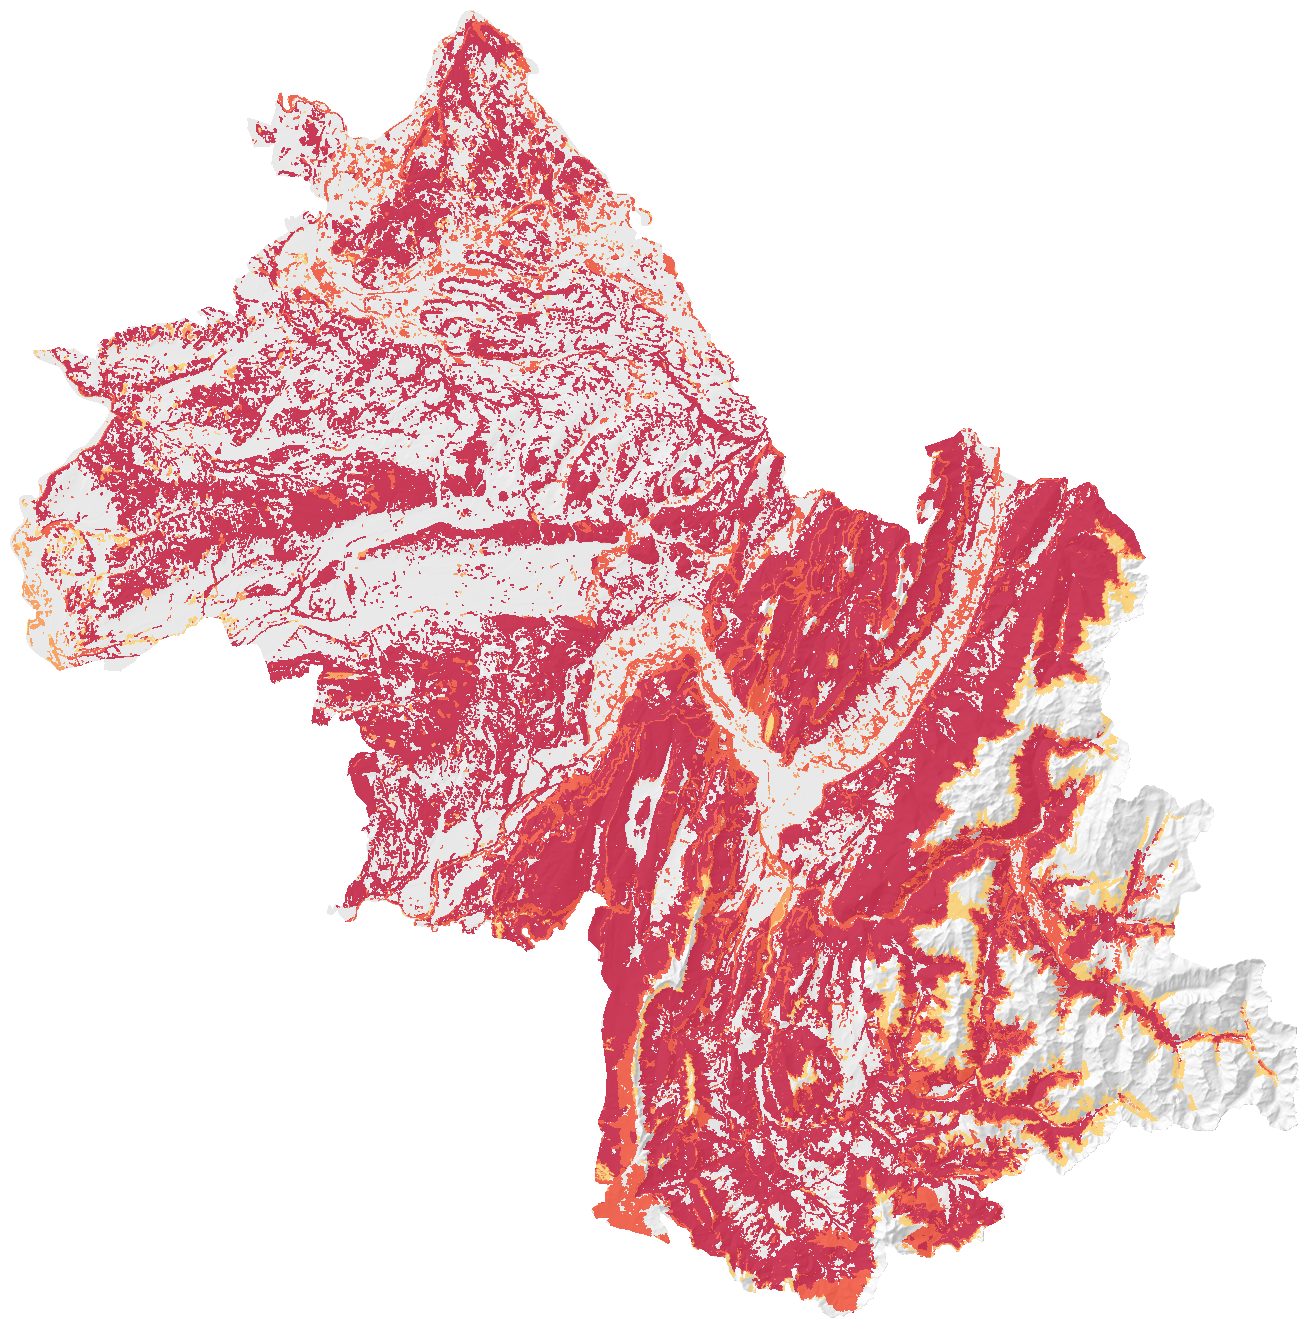
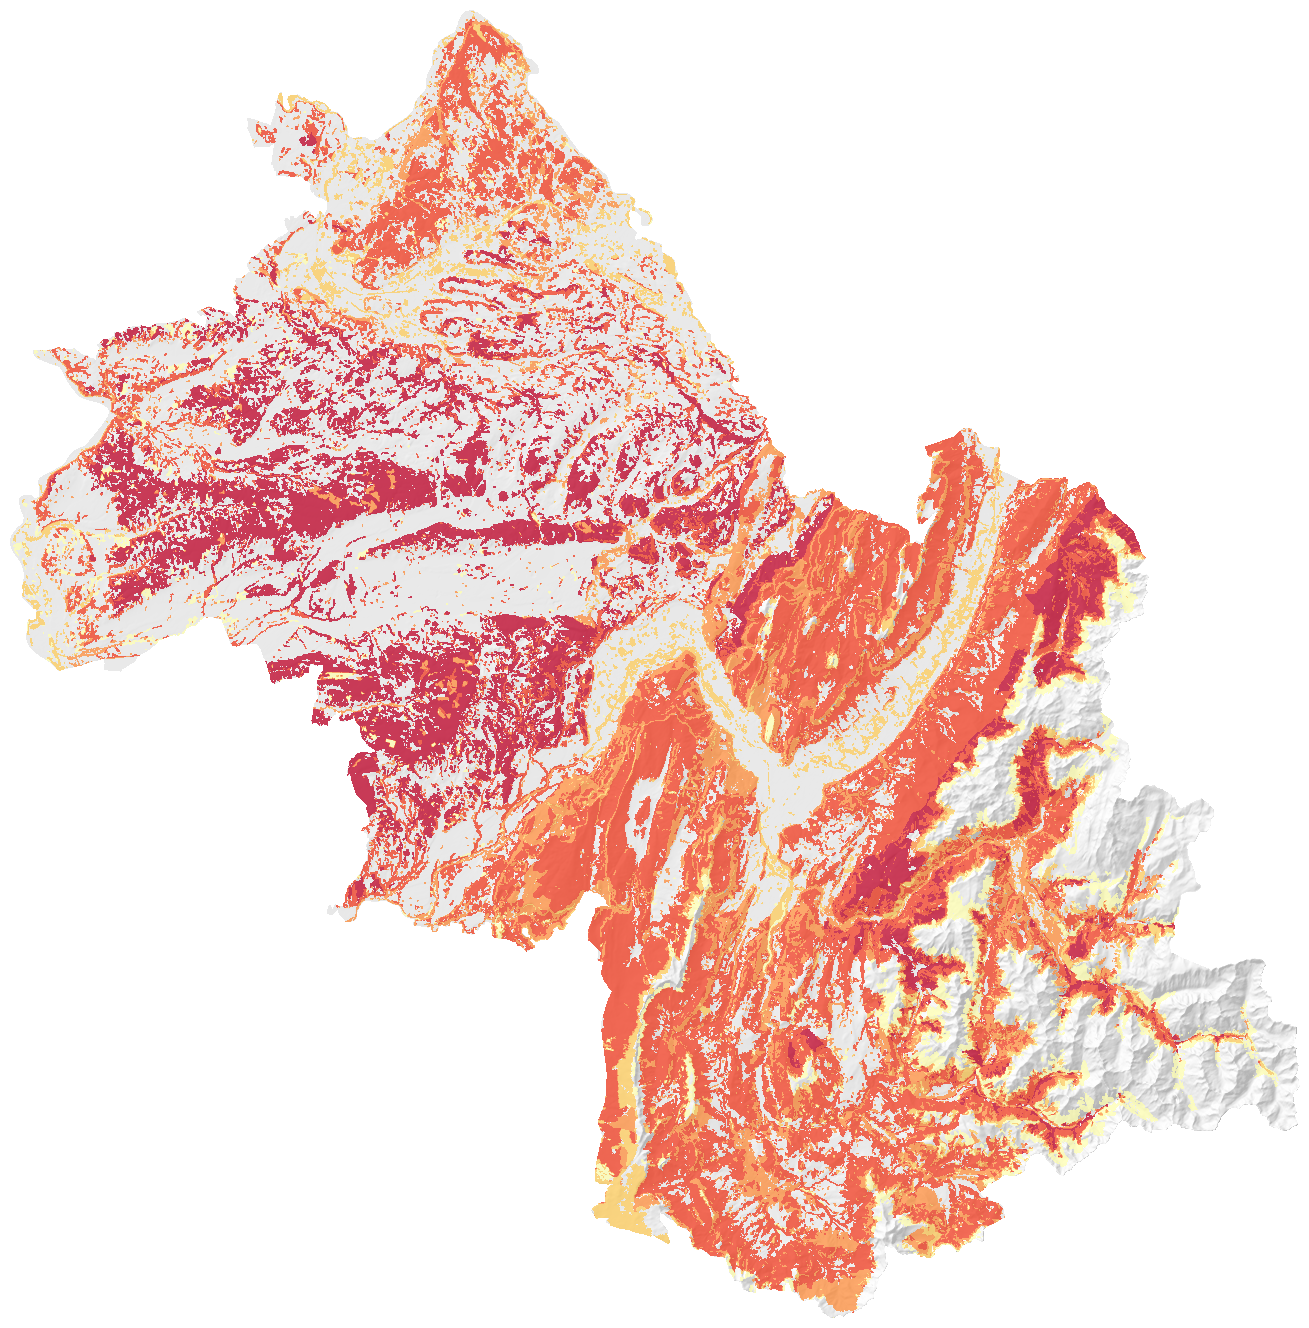
Habitat en produit pondéré : aperçus et rapports de calibrage recalculés
Claude-Session: https://claude.ai/code/session_01HEL7sLH39tDzsfPS4Uce3D

diff --git a/reports/calibration/trompette/rapport.md b/reports/calibration/trompette/rapport.md
@@ -28,7 +28,7 @@ Requête GBIF : https://api.gbif.org/v1/occurrence/search?hasCoordinate=true&has
 
 ![Phénologie](phenologie.png)
 
-Observations hors de la fenêtre saisonnière du modèle : **10 %**.
+Observations hors de la fenêtre saisonnière du modèle : **6 %**.
 
 ## Habitat
 
@@ -36,8 +36,8 @@ L'habitat est moyenné dans le cercle d'incertitude de chaque observation, puis 
 
 ![Habitat](habitat.png)
 
-- AUC observations / fond : 0.51 (faible)
-- Indice de Boyce continu : 0.30 (faible)
+- AUC observations / fond : 0.54 (faible)
+- Indice de Boyce continu : -0.25 (faible)
 
 ### Composition : essences
 
@@ -81,8 +81,8 @@ Score M calculé avec la météo historique (Open-Meteo, ERA5-Land et ERA5), à 
 
 ![Météo](meteo.png)
 
-- AUC temporelle : 0.65 (correct)
-- Sous-scores moyens le jour observé : pluie_15j 0.82, tmoy_7j 0.91, saison 0.88, gel 0.97
+- AUC temporelle : 0.68 (correct)
+- Sous-scores moyens le jour observé : pluie_15j 0.82, tmoy_7j 0.91, saison 0.93, gel 0.97
 
 Valeurs des indicateurs les jours d'observation (déciles 10 et 90, médiane), comparées aux seuils du trapèze de la règle :
 
@@ -93,5 +93,4 @@ Valeurs des indicateurs les jours d'observation (déciles 10 et 90, médiane), c
 
 ## Règles à revoir
 
-- Phénologie : 10 % des observations hors saison du modèle (janv., avr., juil., déc.).
-- Habitat : AUC 0.51, le modèle distingue mal les zones observées du fond.
+- Habitat : AUC 0.54, le modèle distingue mal les zones observées du fond.

diff --git a/reports/calibration/README.md b/reports/calibration/README.md
@@ -4,10 +4,10 @@ Généré le 31/10/2026.
 
 | Espèce | Obs. | Datées | Localisées | Hors saison | AUC habitat | Boyce | AUC météo | Alertes |
 |---|---:|---:|---:|---:|---:|---:|---:|---:|
-| [Cèpe](cepe/rapport.md) | 187 | 187 | 180 | 3 % | 0.54 | 0.53 | 0.60 | 2 |
-| [Girolle](girolle/rapport.md) | 91 | 91 | 84 | 3 % | 0.56 | 0.60 | 0.61 | 1 |
-| [Morille](morille/rapport.md) | 40 | 40 | 31 | 0 % | 0.50 | -0.01 | 0.59 | 2 |
-| [Pied-de-mouton](pied_de_mouton/rapport.md) | 58 | 58 | 52 | 9 % | 0.53 | 0.32 | 0.60 | 2 |
-| [Trompette de la mort](trompette/rapport.md) | 69 | 69 | 68 | 10 % | 0.51 | 0.30 | 0.65 | 2 |
+| [Cèpe](cepe/rapport.md) | 187 | 187 | 180 | 3 % | 0.56 | 0.71 | 0.60 | 2 |
+| [Girolle](girolle/rapport.md) | 91 | 91 | 84 | 3 % | 0.57 | 0.33 | 0.61 | 1 |
+| [Morille](morille/rapport.md) | 40 | 40 | 31 | 0 % | 0.51 | 0.30 | 0.59 | 2 |
+| [Pied-de-mouton](pied_de_mouton/rapport.md) | 58 | 58 | 52 | 9 % | 0.53 | 0.20 | 0.60 | 2 |
+| [Trompette de la mort](trompette/rapport.md) | 69 | 69 | 68 | 6 % | 0.54 | -0.25 | 0.68 | 1 |
 
 Seuils d'alerte : effectif < 20 (indicatif), plus de 10 % d'observations hors saison, AUC < 0,6, classe sur-représentée × 1,5 mais notée ≤ 0,3 ou sous-représentée × 0,5 mais notée ≥ 0,8.

diff --git a/reports/calibration/cepe/rapport.md b/reports/calibration/cepe/rapport.md
@@ -36,8 +36,8 @@ L'habitat est moyenné dans le cercle d'incertitude de chaque observation, puis 
 
 ![Habitat](habitat.png)
 
-- AUC observations / fond : 0.54 (faible)
-- Indice de Boyce continu : 0.53 (correct)
+- AUC observations / fond : 0.56 (faible)
+- Indice de Boyce continu : 0.71 (correct)
 
 ### Composition : essences
 
@@ -68,7 +68,7 @@ Part moyenne de chaque classe dans les cercles (observations et fond), et valeur
 
 |  | valeur_regle | part_observations | part_fond | ratio |
 |---|---|---|---|---|
-| detritique_mixte | 0.90 | 0.45 | 0.31 | 1.43 |
+| detritique_mixte | 1.00 | 0.45 | 0.31 | 1.43 |
 | calcaire | 0.60 | 0.21 | 0.28 | 0.76 |
 | marno_calcaire | 0.70 | 0.17 | 0.18 | 0.92 |
 | alluvions_recentes | 0.40 | 0.09 | 0.13 | 0.66 |
@@ -94,5 +94,5 @@ Valeurs des indicateurs les jours d'observation (déciles 10 et 90, médiane), c
 
 ## Règles à revoir
 
-- Habitat : AUC 0.54, le modèle distingue mal les zones observées du fond.
+- Habitat : AUC 0.56, le modèle distingue mal les zones observées du fond.
 - Météo : AUC temporelle 0.60, les jours observés ne sont pas nettement mieux notés que les autres jours.

diff --git a/reports/calibration/morille/rapport.md b/reports/calibration/morille/rapport.md
@@ -36,8 +36,8 @@ L'habitat est moyenné dans le cercle d'incertitude de chaque observation, puis 
 
 ![Habitat](habitat.png)
 
-- AUC observations / fond : 0.50 (faible)
-- Indice de Boyce continu : -0.01 (faible)
+- AUC observations / fond : 0.51 (faible)
+- Indice de Boyce continu : 0.30 (faible)
 
 ### Composition : essences
 
@@ -94,5 +94,5 @@ Valeurs des indicateurs les jours d'observation (déciles 10 et 90, médiane), c
 
 ## Règles à revoir
 
-- Habitat : AUC 0.50, le modèle distingue mal les zones observées du fond.
+- Habitat : AUC 0.51, le modèle distingue mal les zones observées du fond.
 - Météo : AUC temporelle 0.59, les jours observés ne sont pas nettement mieux notés que les autres jours.

diff --git a/reports/calibration/girolle/rapport.md b/reports/calibration/girolle/rapport.md
@@ -36,8 +36,8 @@ L'habitat est moyenné dans le cercle d'incertitude de chaque observation, puis 
 
 ![Habitat](habitat.png)
 
-- AUC observations / fond : 0.56 (faible)
-- Indice de Boyce continu : 0.60 (correct)
+- AUC observations / fond : 0.57 (faible)
+- Indice de Boyce continu : 0.33 (faible)
 
 ### Composition : essences
 
@@ -93,4 +93,4 @@ Valeurs des indicateurs les jours d'observation (déciles 10 et 90, médiane), c
 
 ## Règles à revoir
 
-- Habitat : AUC 0.56, le modèle distingue mal les zones observées du fond.
+- Habitat : AUC 0.57, le modèle distingue mal les zones observées du fond.

diff --git a/reports/calibration/pied_de_mouton/rapport.md b/reports/calibration/pied_de_mouton/rapport.md
@@ -37,7 +37,7 @@ L'habitat est moyenné dans le cercle d'incertitude de chaque observation, puis 
 ![Habitat](habitat.png)
 
 - AUC observations / fond : 0.53 (faible)
-- Indice de Boyce continu : 0.32 (faible)
+- Indice de Boyce continu : 0.20 (faible)
 
 ### Composition : essences
 
